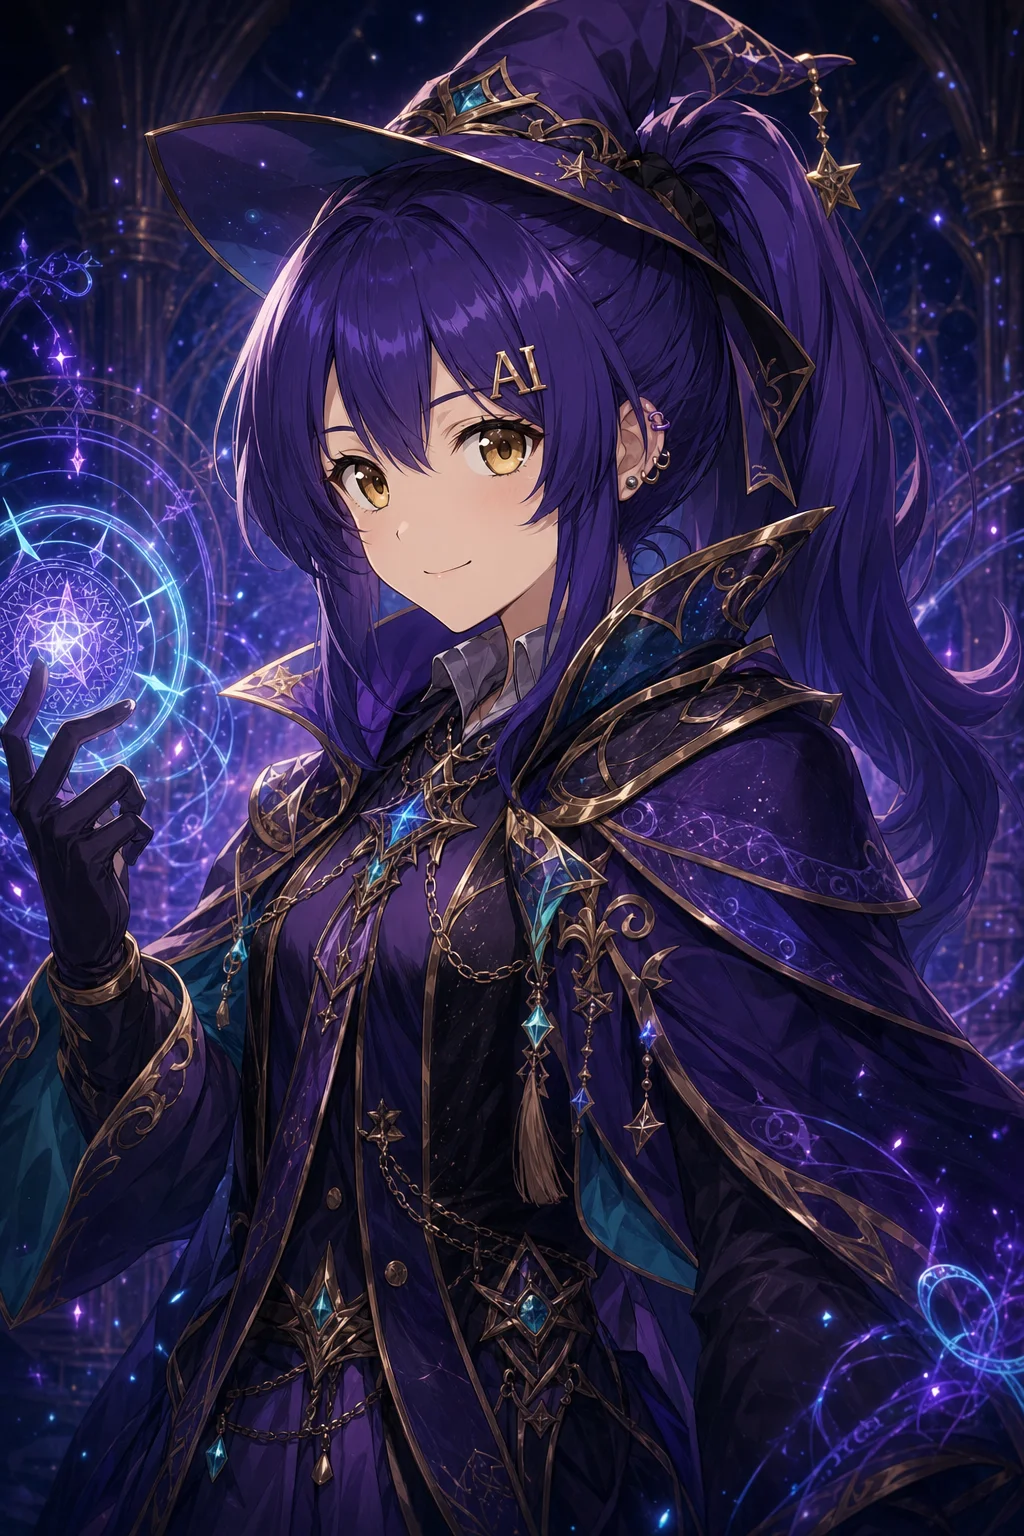
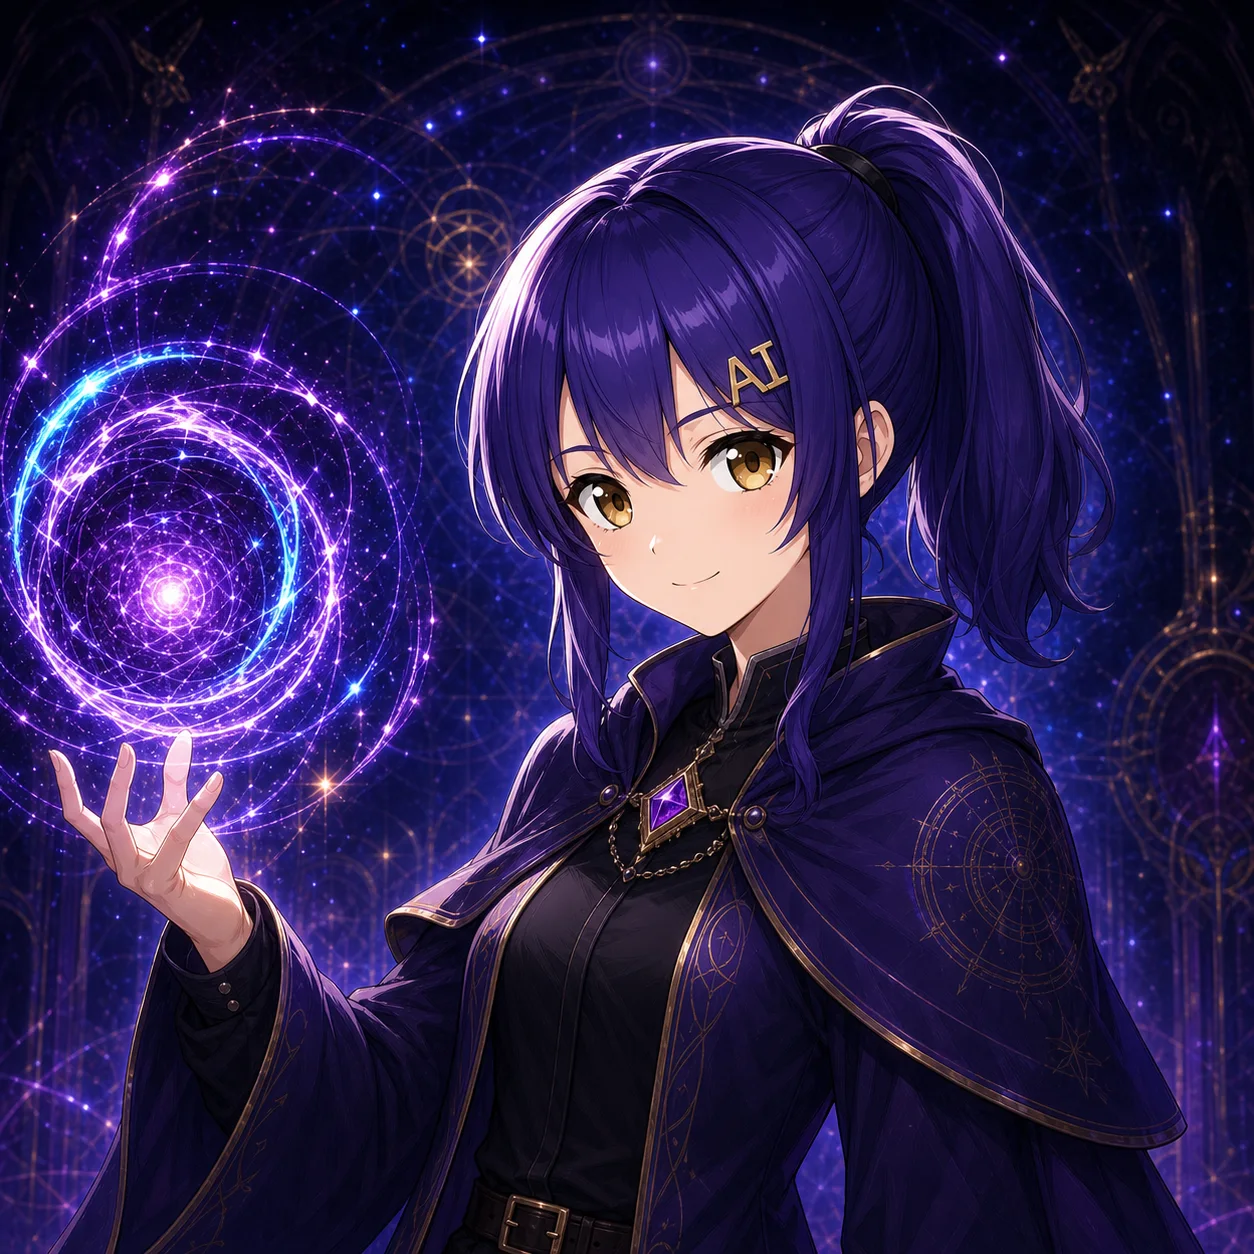
Refine rival leader portrait

diff --git a/src/styles.css b/src/styles.css
@@ -8585,6 +8585,10 @@ body:has(.modal-backdrop) {
   transform: scale(1.08);
 }
 
+.leader-portrait.rival img {
+  transform: translate(10px, 14px) scale(1.08);
+}
+
 .leader-portrait.human img {
   object-position: 50% 20%;
 }